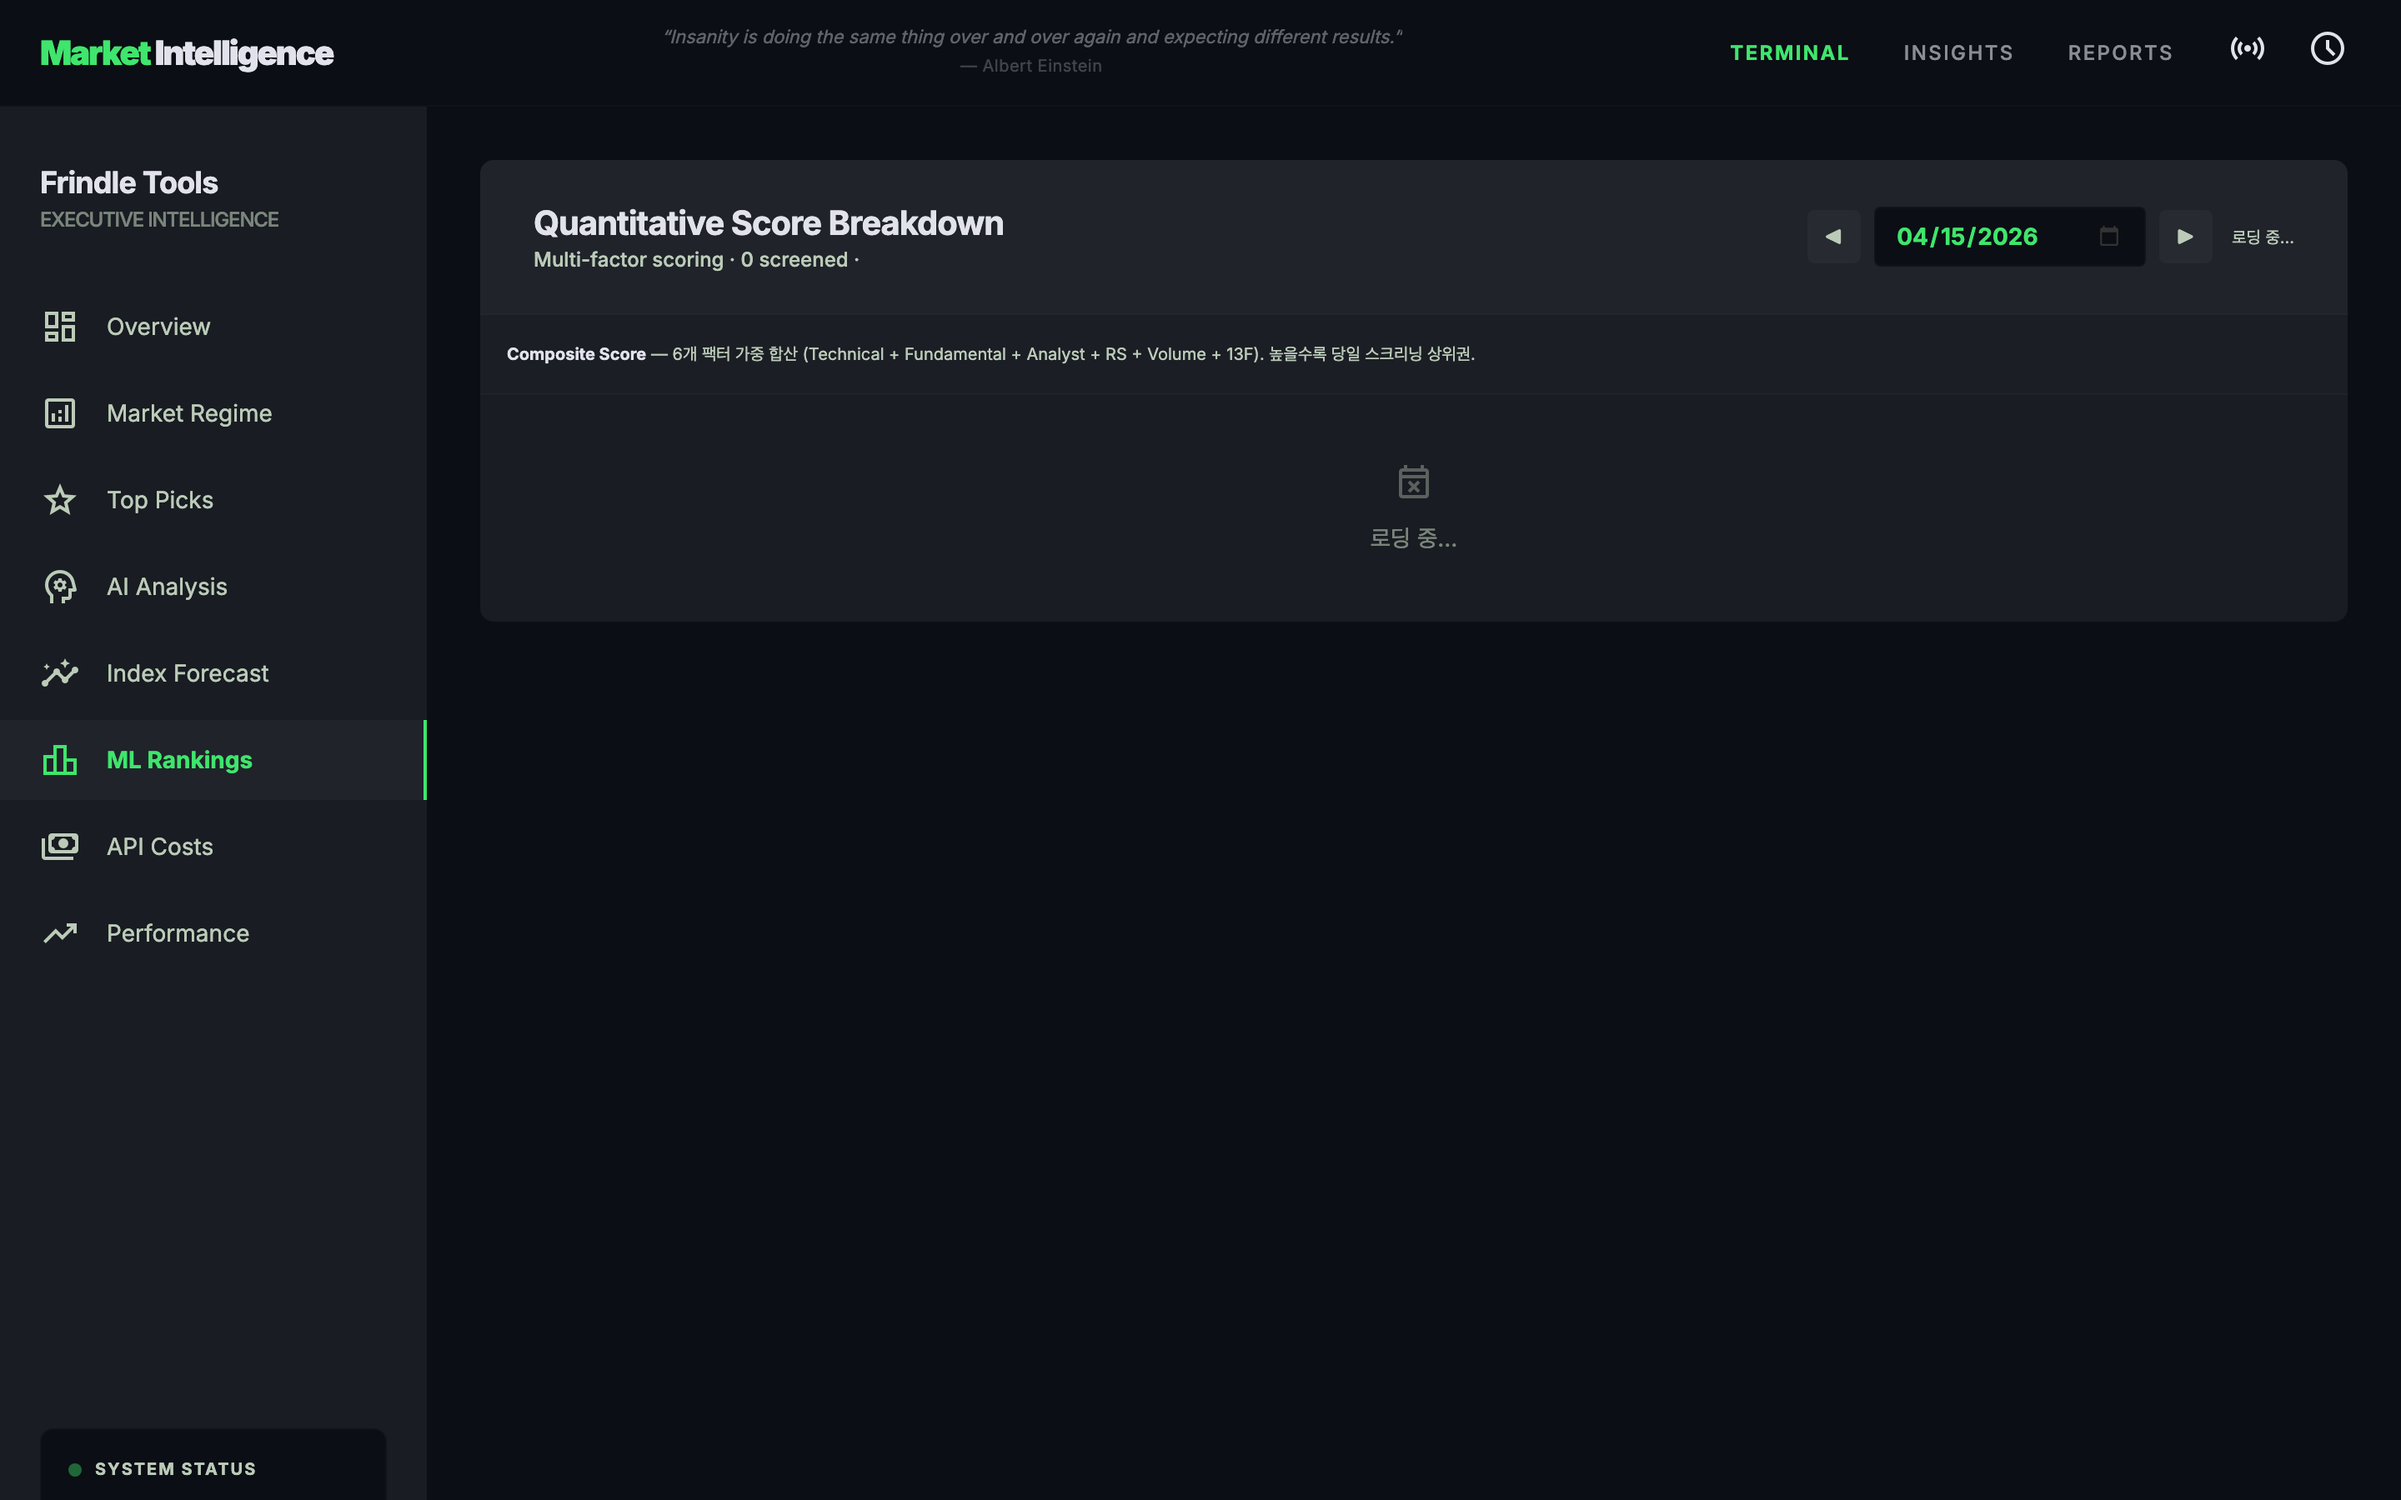
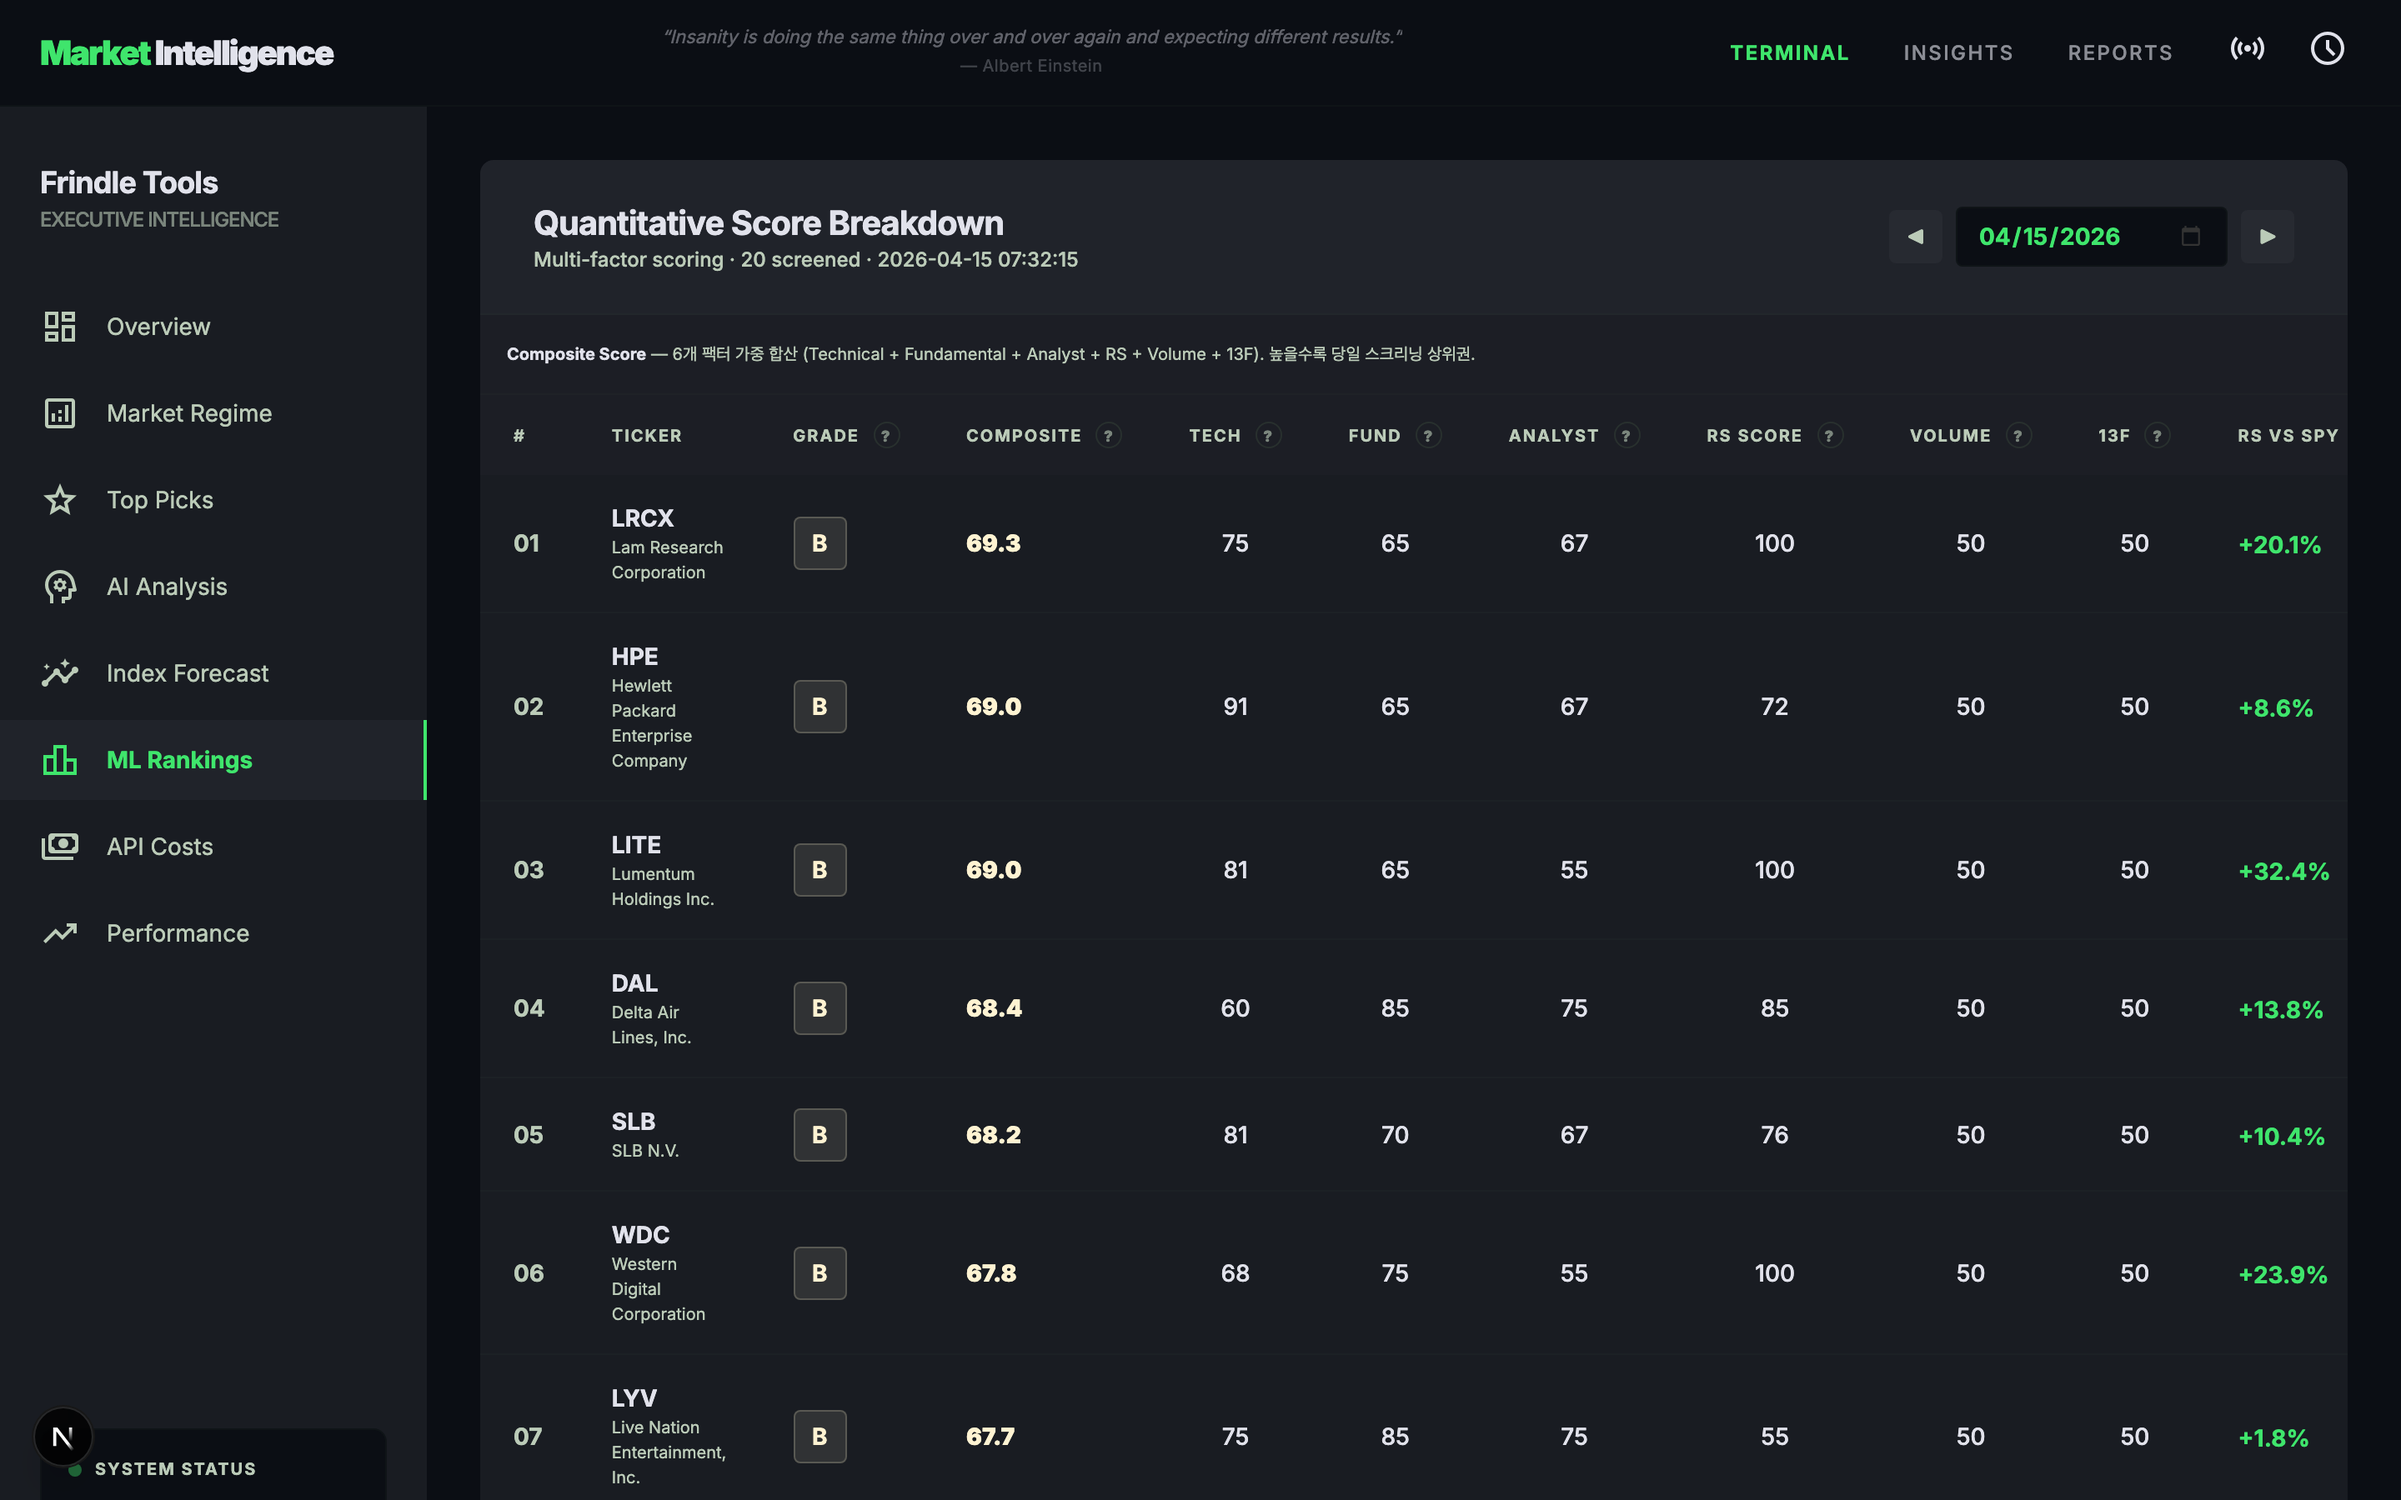
[수정] notice 스크린샷 재촬영 — 워밍업 패스로 on-demand 컴파일 해결
- 1차 워밍업 패스: 6개 페이지 컴파일 트리거 후 5초 대기
- 2차 촬영 패스: networkidle(12s) + sleep(2) 조합으로 데이터 로딩 완료 확인
- 파일 크기 100KB대 → 230~280KB대로 정상화
🤖 Generated with Claude Code

diff --git a/.scripts/take_screenshots.py b/.scripts/take_screenshots.py
@@ -31,6 +31,18 @@ PAGES = [
 ]
 
 
+def wait_for_page(page, url: str, timeout: int = 45000):
+    """페이지 이동 후 컴파일 + 데이터 로딩 완료까지 대기"""
+    page.goto(url, wait_until="load", timeout=timeout)
+    # networkidle 시도: HMR WebSocket은 항상 열려있어 타임아웃됨
+    # 하지만 그 시간 동안 on-demand 컴파일 + 데이터 fetch 완료
+    try:
+        page.wait_for_load_state("networkidle", timeout=12000)
+    except Exception:
+        pass
+    time.sleep(2)
+
+
 def take_screenshots():
     OUT_DIR.mkdir(parents=True, exist_ok=True)
 
@@ -42,15 +54,21 @@ def take_screenshots():
         )
         page = context.new_page()
 
+        # ── 1차 패스: on-demand 컴파일 트리거 ──────────────────────────
+        print("  [준비] 페이지 컴파일 워밍업...")
+        for _, path, _ in PAGES:
+            page.goto(BASE_URL + path, wait_until="load", timeout=45000)
+            time.sleep(1)
+        print("  [준비] 완료. 5초 대기 후 스크린샷 시작\n")
+        time.sleep(5)
+
+        # ── 2차 패스: 실제 스크린샷 ────────────────────────────────────
         for filename, path, label in PAGES:
             url = BASE_URL + path
             out_path = OUT_DIR / filename
             print(f"  [{label}] {url} → {filename}")
 
-            page.goto(url, wait_until="load", timeout=30000)
-            # 데이터 로딩 및 렌더링 완전 대기
-            time.sleep(2.5)
-
+            wait_for_page(page, url)
             page.screenshot(path=str(out_path), full_page=False)
             size = out_path.stat().st_size // 1024
             print(f"    ✓ {out_path.name} ({size} KB)")
